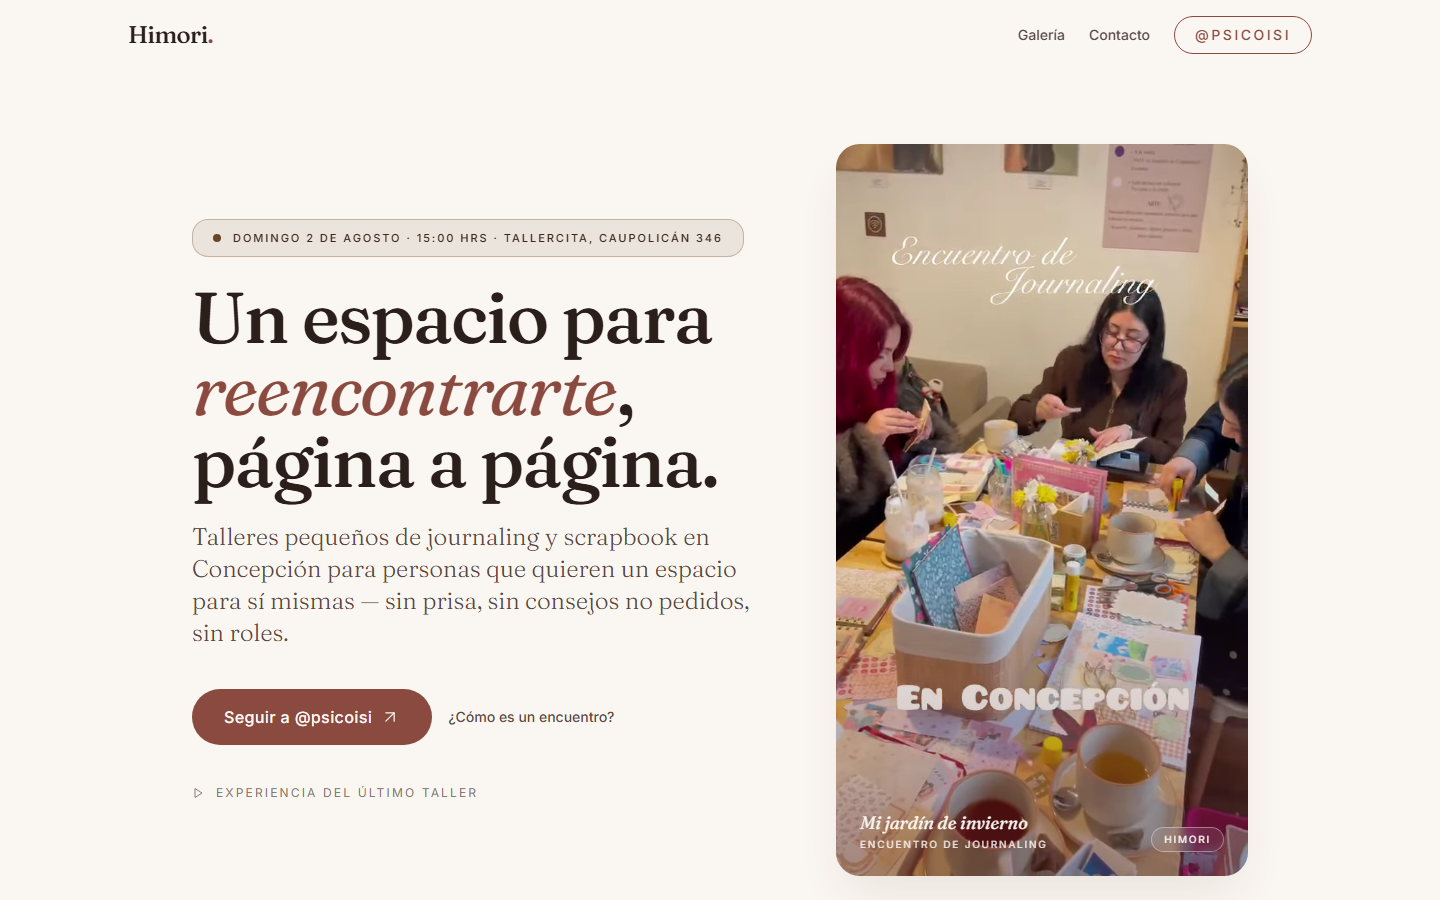
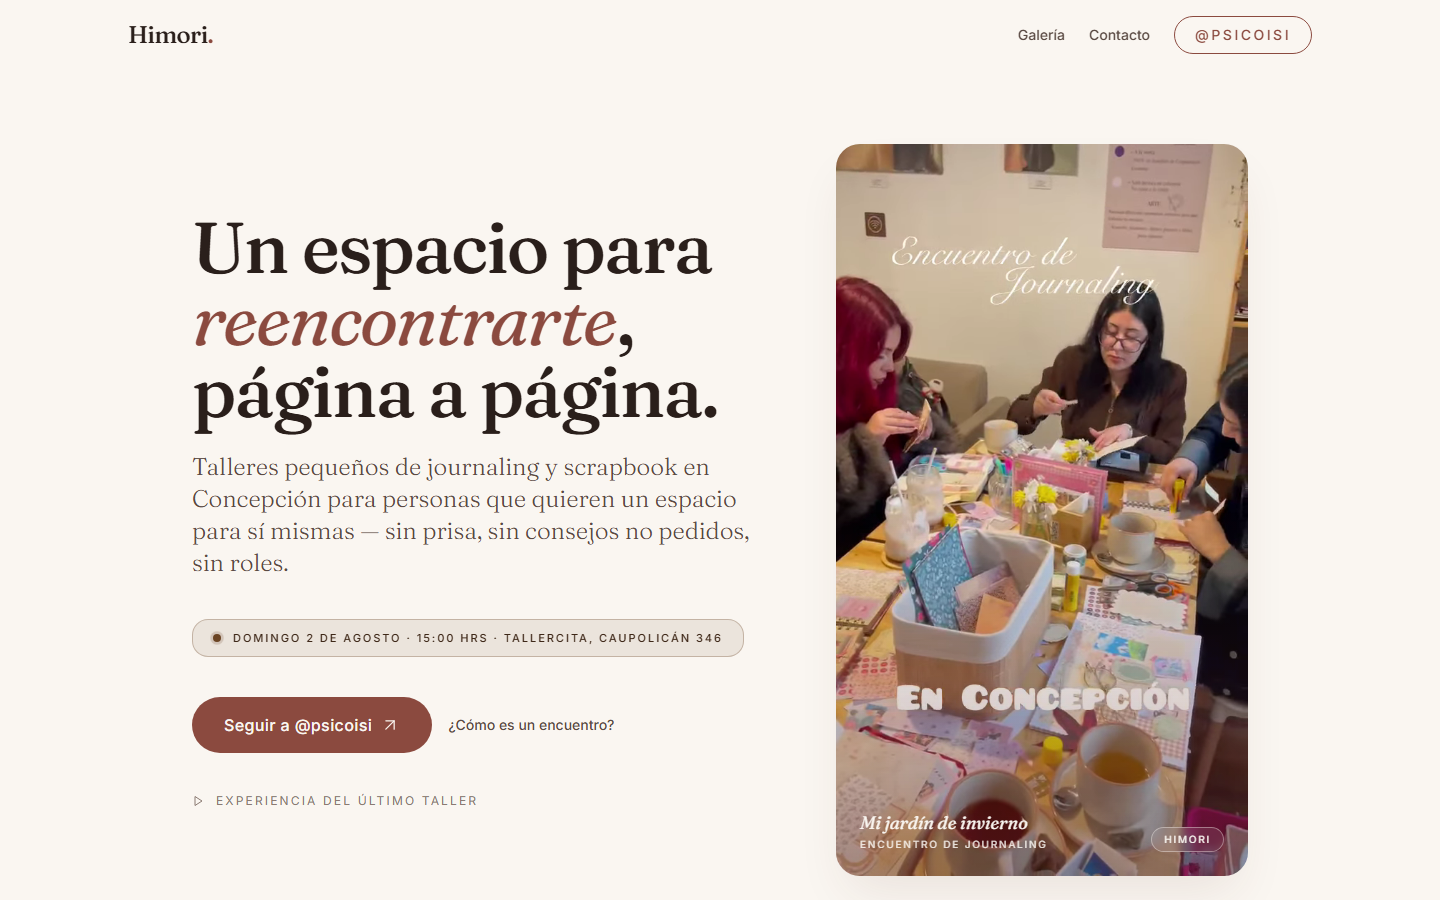
copy: quitar redundancias detectadas en revisión
- audience[0]: 'Personas que sienten que llevan mucho tiempo pensando
  y poco tiempo sintiendo' → 'Personas que llevan mucho tiempo
  pensando y poco sintiendo' (drop 'sienten que' para evitar repetir
  la raíz sentir/sintiendo)
- meetingFormat Compartir sin presión: 'Si querés contar, contás. Si no,
  también está bien. La escucha es la base de todo' → 'Si querés contar,
  hay espacio. Si no, está bien quedarse contigo' (drop 'contar, contás'
  repetido; 'quedarte contigo' ata con el tema reencontrarte del H1)

diff --git a/web/src/content/site.ts b/web/src/content/site.ts
@@ -66,7 +66,7 @@ export const SITE = {
     {
       title: "Compartir sin presión",
       description:
-        "Si querés contar, contás. Si no, también está bien. La escucha es la base de todo.",
+        "Si querés contar, hay espacio. Si no, está bien quedarse contigo.",
     },
     {
       title: "Te llevás un recuerdo",
@@ -77,7 +77,7 @@ export const SITE = {
 
   // Para quién es — el perfil core del modelo de negocio
   audience: [
-    "Personas que sienten que llevan mucho tiempo pensando y poco tiempo sintiendo.",
+    "Personas que llevan mucho tiempo pensando y poco sintiendo.",
     "Personas que quieren un espacio sin juicios, sin consejos no pedidos, sin prisa.",
     "Curiosas del journaling, el scrapbook, la escritura creativa — incluso si nunca lo intentaron.",
     "Las que necesitan un espacio para sí mismas, sin roles, sin tareas.",
